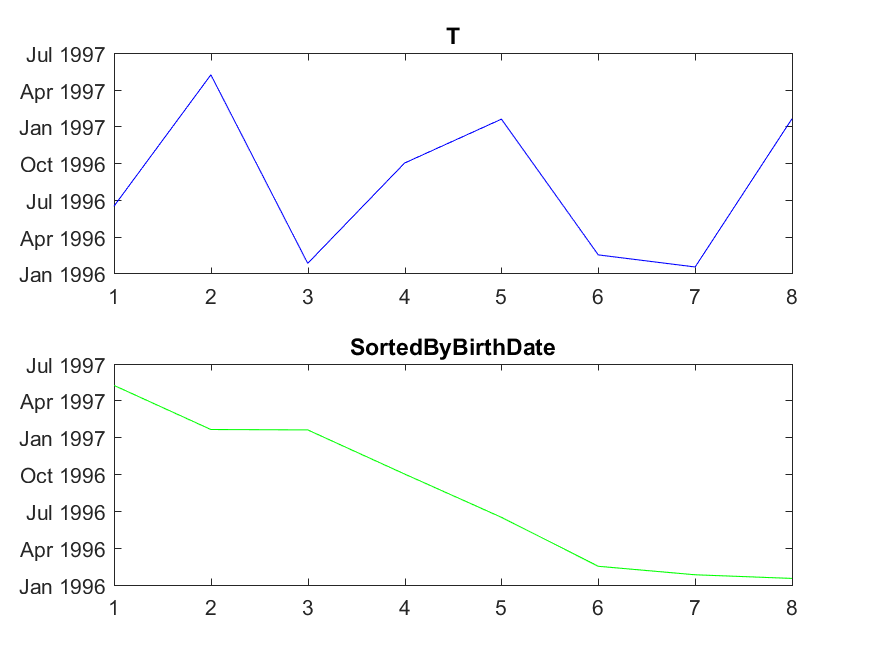
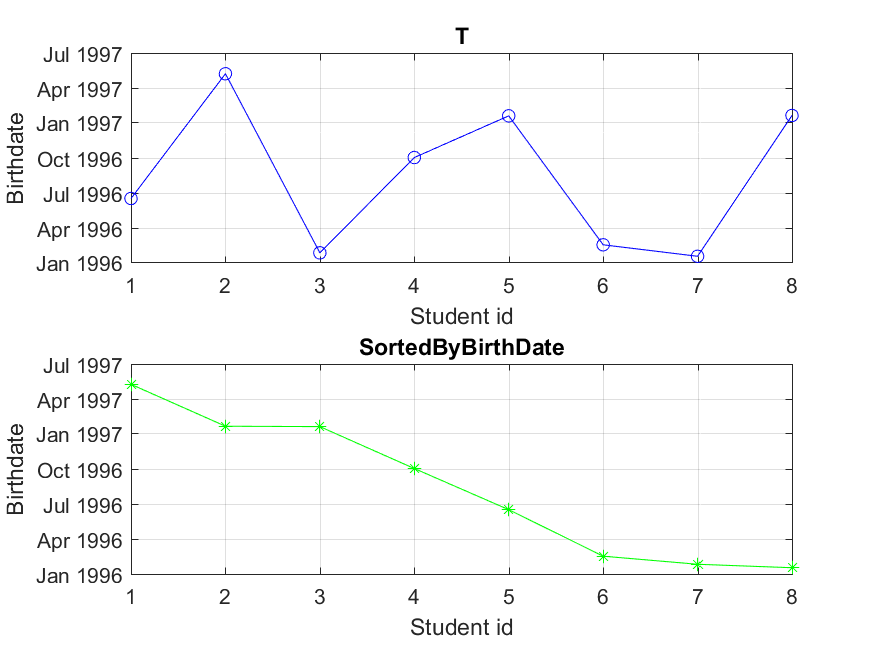
(m_of_sm_of_mo): add corrected lab1

diff --git a/m_of_sm_of_mo/lab1/lab1.m b/m_of_sm_of_mo/lab1/lab1.m
@@ -36,11 +36,17 @@ y2 = table2array(SortedByBirthDate(:, 4));
 
 plots = figure;
 subplot(2, 1, 1) ;
-plot(x, y1, 'b');
+plot(x, y1, '-ob');
+grid on;
+xlabel('Student id');
+ylabel('Birthdate');
 title('T');
 
 subplot(2, 1, 2);
-plot(x, y2, 'g');
+plot(x, y2, '-*g');
+grid on;
+xlabel('Student id');
+ylabel('Birthdate');
 title('SortedByBirthDate');
 
 saveas(plots,'plots.png');
